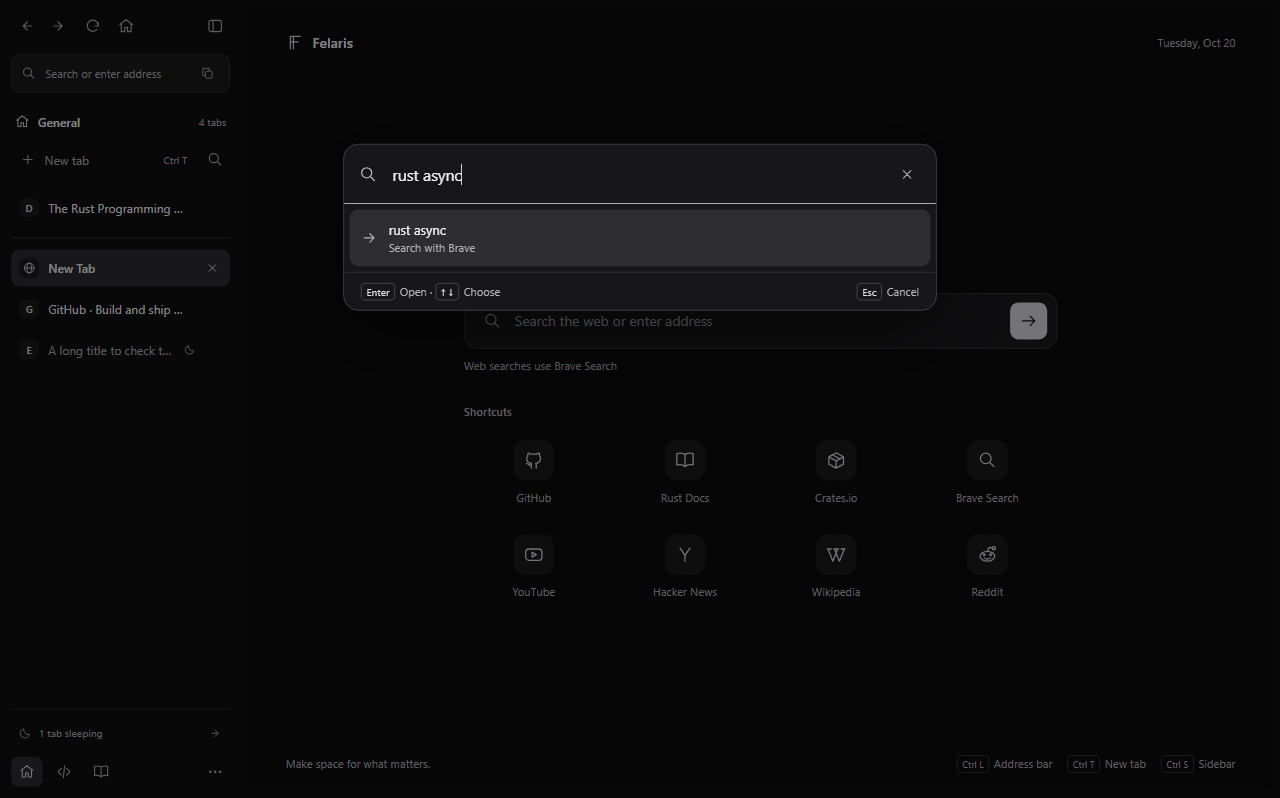
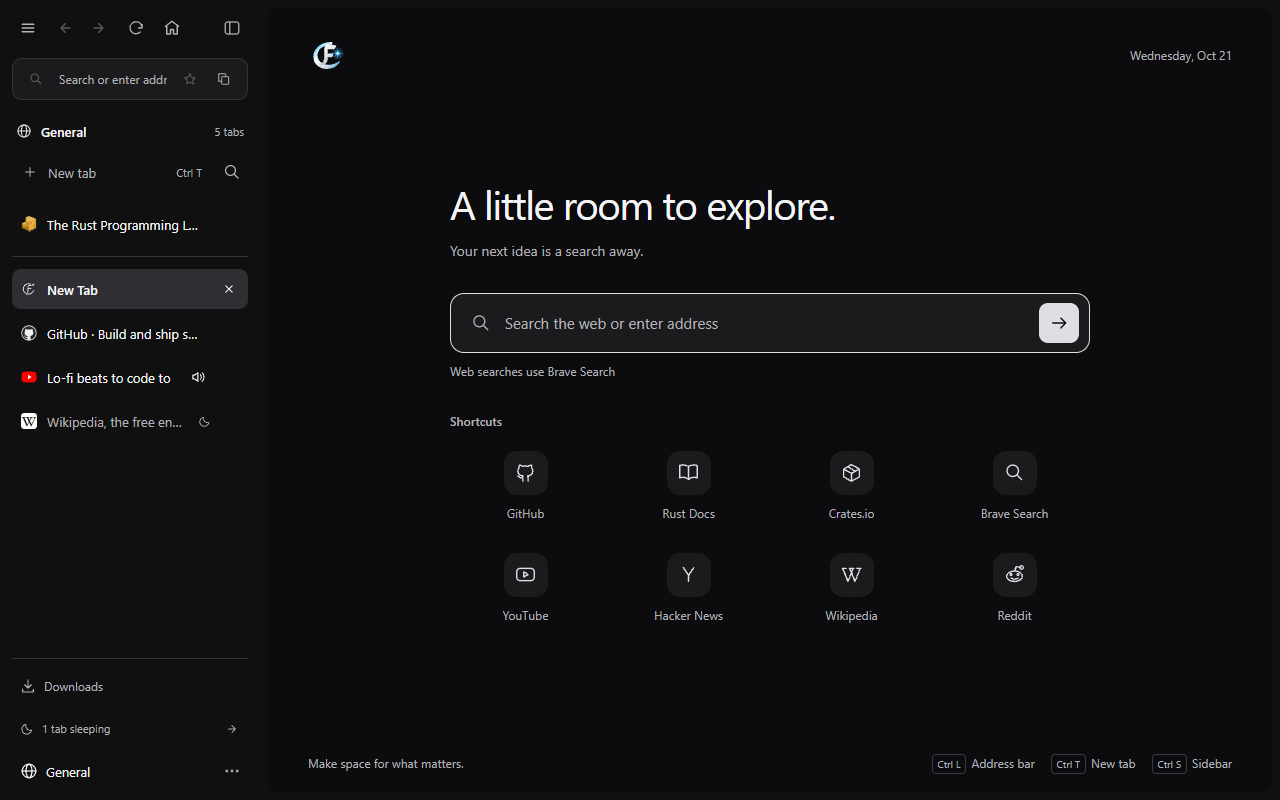
Update Felaris to v0.3.1 with refreshed UI screenshots and details

diff --git a/src/assets/SOURCES.md b/src/assets/SOURCES.md
@@ -4,19 +4,20 @@ These are real application interfaces, not AI-generated app screens. Every PNG e
 
 ## Felaris
 
-Source: https://github.com/khentmoba/Felaris/tree/11d0379fe57e88fce416f6cb094456c909fcaf4f/docs/pr-evidence
+Source: https://github.com/khentmoba/Felaris/tree/e0c4d06b03bed3bdaf5f549efdca16c8fd0650fc/src (v0.3.1)
 
-- `felaris-home.png`: original `new-tab.png` capture (1280 × 798) of the actual browser UI loaded with the repository's UI test fixture: sample tabs and a sample query, no personal browsing data.
-- `felaris-new-tab.png`: original `after.png` capture of the floating new-tab search, same fixture.
-- `felaris-sidebar.png`: `after.png` cropped to its left 520 × 798 pixels, showing the sidebar and the sleeping-tab marker.
+- `felaris-home.png`: 1280 × 800 capture of the actual Felaris v0.3.1 interface (`src/ui.html` and `src/start_page.html`) loaded in the UI test harness with sample tabs, showing the standalone vector logo, Brave Search box, eight site shortcuts, and sidebar controls. No personal browsing data.
+- `felaris-new-tab.png`: 1280 × 800 capture of the floating new-tab search (`src/new_tab.html`) open over Felaris Home, showing matching open tabs across workspaces and recent history with site favicons.
+- `felaris-site-controls.png`: 1280 × 800 capture of the sidebar's Site controls panel (`src/ui.html`) opened from the address bar lock icon for a sample HTTPS origin, showing connection details, permission defaults, and the cookie/site-data clearing action.
+- `felaris-sidebar.png`: 520 × 800 crop of the Felaris v0.3.1 sidebar showing a pinned tab, an active tab, an audio-playing tab with its one-click speaker mute button, a sleeping tab marked with a moon, Downloads, and the workspace switcher.
 
-These are WebView captures against fixtures. They show presentation, not tab sleeping or memory behaviour.
+These are captures of the unmodified Felaris v0.3.1 HTML/CSS/JS surfaces against UI fixtures. They show presentation, not native WebView2 tab sleeping or memory behaviour.
 
 ## App icons
 
 Each app page uses the app's official icon, resized to 256 × 256 with no other changes:
 
-- `felaris-icon.png`: https://github.com/khentmoba/Felaris/blob/7cb2978203fda24700f5a26e08df7291a3427f82/assets/felaris-icon.png (the mark shipped in v0.3.0)
+- `felaris-icon.png`: https://github.com/khentmoba/Felaris/blob/e0c4d06b03bed3bdaf5f549efdca16c8fd0650fc/assets/felaris-icon.png (the vector mark shipped in v0.3.1)
 - `speakflow-icon.png`: https://github.com/khentmoba/SpeakFlow/blob/d98869cbe8b04154c166f367a5c4089934f9f814/src-tauri/icons/128x128@2x.png
 - `cinder-icon.png`: https://github.com/khentmoba/Cinder/blob/7404e34b28cc231f0807dfac7f5762484f21fbfa/src-tauri/icons/128x128@2x.png
 - `everglow-icon.png`: https://github.com/khentmoba/Everglow-Desktop/blob/2e58246013e3bac292e9bbcde8f75e7c6a7ec953/src-tauri/icons/icon.png
